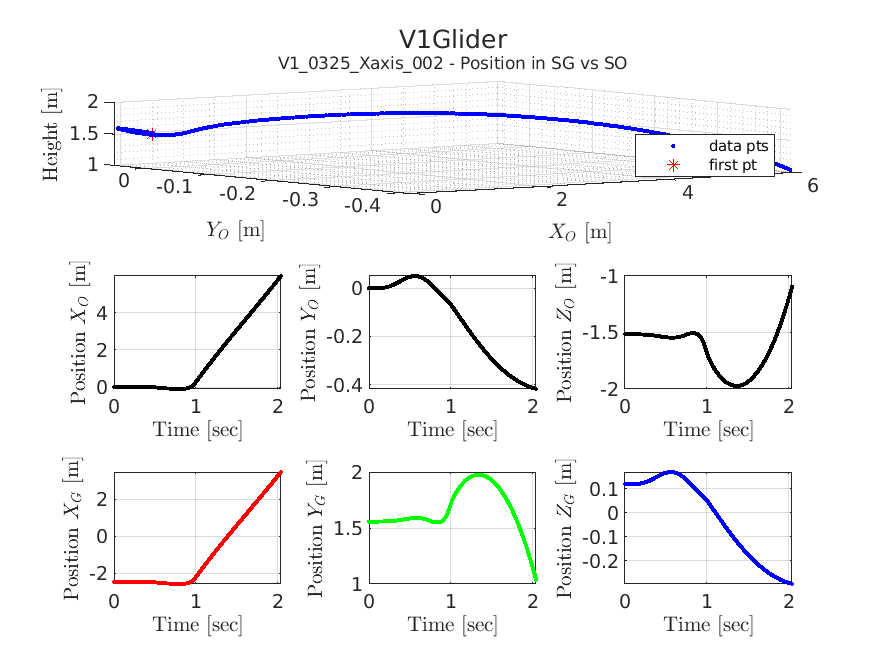
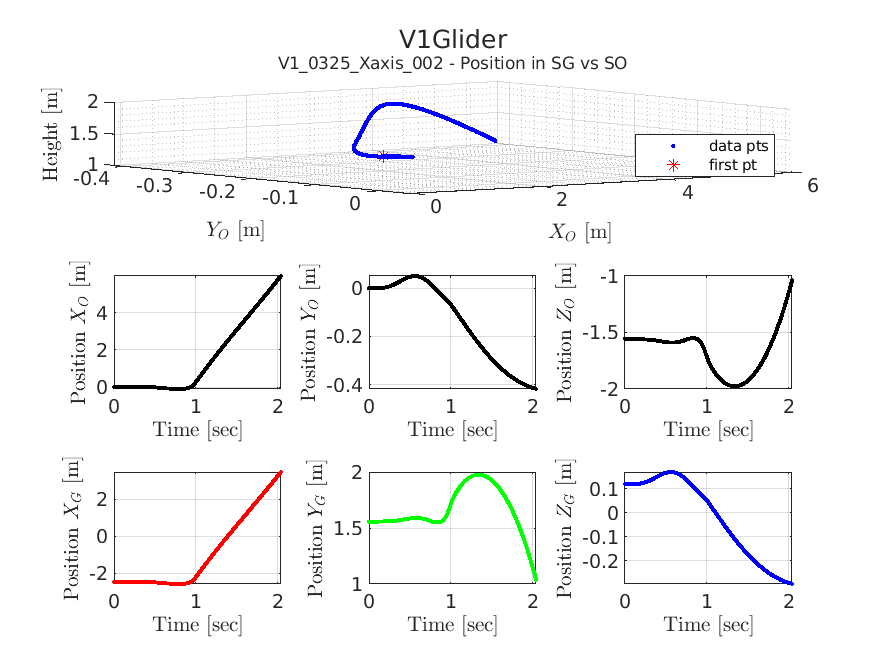
S01

diff --git a/classes/MyGlider.m b/classes/MyGlider.m
@@ -41,6 +41,11 @@ classdef MyGlider
         DOG % global to So
         posSO
         height
+        % rotation body wrt to SO
+        rotB_O
+
+        DBN % nominal to body
+        
 
         % to plot
         plotfolder = "plots/"
@@ -83,7 +88,7 @@ classdef MyGlider
             % do nothing with angles (it's already unwrapped)
             obj.rotG = obj.rotinput;
 
-            % ---------------------------------
+            % ------obj.rotB_O---------------------------
             % init conditions wrt SG
             % position
             obj.pos_originG = obj.posG(1, :);
@@ -92,12 +97,59 @@ classdef MyGlider
             % ---------------------------------
             
             %% frame change
-            % DO_G (global to So)
-            obj = GToSO(obj);
+            % position (global to So)
+            obj = posGToSO(obj);
+
+            % rotation
+            obj = angToSB(obj);
+
+        end
+        
+        function obj = angToSB(obj)
+            
+            % global to SO (90 deg on xG)
+            D0G = obj.DOG;
+            % transpose, SO to Global
+            DGO = transpose(D0G);
+
+            % nominal to body (90 deg on xN)
+            DBN = obj.getD1(90);
+            obj.DBN = DBN;
+
+            % measured angles (deg)
+            angG = obj.rotG;
+
+            n = size(angG, 1);
+            seq = 123;
+
+            obj.rotB_O = zeros(n, 3);
+
+            for k=1:n
+                
+                % current measured angles (from Motive)
+                phi = angG(k, 1);
+                theta = angG(k, 2);
+                psi = angG(k, 3);
+
+                % current rotation matrix
+                DNG_k = obj.getDmatrix([phi, theta, psi], seq);
+
+                % current DB/O
+                DBO = DBN * DNG_k * DGO;
+
+                % angles of interest (rotation of body wrt to SO)
+                eul_angles = rotm2eul(DBO, 'XYZ');
+
+                obj.rotB_O(k, :) = rad2deg(eul_angles);
+            end
+
+
+
 
         end
 
-        function obj = GToSO(obj)
+
+        function obj = posGToSO(obj)
 
             
             % height is the measurement in y direction
@@ -106,41 +158,132 @@ classdef MyGlider
             % rotate sequence
             seq = 123;
 
-            % rotate 90 degrees around xG (make z-down on So)
-            roll = 90;
-            % align xO with direction of movement (rotate the initial measured angle along yG )
-            pitch = obj.rotG(1, 2);
-            % don't rotate along zG
-            psi = 0;
-            % angle for rotation
-            ang = [roll, pitch, psi];
-            
-            % get rotation matrix from SG to SO
-            obj.DOG = obj.getDmatrix(ang, seq);
+            % SG to SO: +90 degrees around xG (make z-down)
+            obj.DOG = obj.getD1(90);
 
             % rotate position data from SG to SO
             pos_rotated = obj.rotatebyD(obj.posG, obj.DOG);   
 
             % TRANSLATE POSITION data from SG to SO 
-            % (displace by xG, zG to where the glider was first seen,
-            % xO(0), yO(0)
+            % (displace to where the glider was first seen, xO(0), yO(0) )
             shift = [pos_rotated(1, 1), pos_rotated(1, 2), 0];
             obj.posSO = obj.moveOrigin(pos_rotated, shift);
 
             %%
-            figure;
-            plot(obj.time, obj.posG(:, 2), 'r')
-            hold on
-            %plot(obj.time, obj.height, 'b--')
-            plot(obj.time, -obj.posSO(:, 3), 'k')
-            title('Height Check')
-            legend('Y-UP (raw)', '- $Z_O$', 'Interpreter', 'latex')
+            % figure;
+            % plot(obj.time, obj.posG(:, 2), 'r')
+            % hold on
+            % %plot(obj.time, obj.height, 'b--')
+            % plot(obj.time, -obj.posSO(:, 3), 'k')
+            % title('Height Check')
+            % legend('Y-UP (raw)', '- $Z_O$', 'Interpreter', 'latex')
 
 
         end
 
 
         %% plot functions
+
+        function plotStudio(obj, plotsubfolder, closeopt)
+            % PLOT in one figure
+            % (line 1) 3D position wrt to SO, Height instead of true Z
+            % (line 2) position vs time (also in S0)
+            % (line 3) angles taken from DB/O
+            
+            % time
+            t = obj.time;
+            
+            % position wrt SO
+            pos = obj.posSO;
+            x = pos(:, 1); y = pos(:, 2); z = obj.height;
+            
+            % rotation SB wrt SO
+            rot = obj.rotB_O;
+
+            % aestheticsuntitled3
+            mkrsize1 = 4; mkrsize2 = 3;
+
+            % figure
+            figure;
+            fg = tiledlayout(3, 3);
+            
+            % 3D POSITION in SO
+            nexttile([1 3]);
+            plot3(x, y, z, 'b.', 'MarkerSize', mkrsize1)
+            hold on
+            % initial collected point
+            plot3(x(1), y(1), z(1), 'r*', 'MarkerSize', mkrsize2)
+            % axis equal
+            set(gca, 'YDir', 'reverse')
+            % axis
+            xlabel('$X_{O}$ [m]')
+            ylabel('$Y_{O}$ [m]')
+            zlabel('Height [m]')
+            % legend
+            legend('data pts', 'first pt', 'Location', 'southeast', 'FontSize', 7)
+            legend('boxon')
+            grid on
+            grid minor
+            % [az, el] = view
+            view([20, 30])
+            
+            % POSITION vs TIME in SO
+            axisname = ["$X_O$", "$Y_O$", "$Z_O$"];
+            mycolor = ["r.", "m.", "g."];
+            for axx=1:3
+
+                nexttile
+                plot(t, pos(:, axx), mycolor(axx), 'MarkerSize', mkrsize1)
+                hold on
+                title('Position')
+                grid on
+                xlabel('Time [sec]')
+                yname =  axisname(axx) + " [m]";
+                ylabel(yname)
+                xlim([0 max(t)])
+                hold off
+            end
+
+            % ANGLE vs TIME wrt S0
+            anglename = ["$\phi$", "$\theta$", "$\psi$"];
+            mycolor = ["k.", "k.", "k."];        
+            for axx=1:3
+
+                nexttile
+                plot(t, rot(:, axx), mycolor(axx), 'MarkerSize', mkrsize1)
+                hold on
+                title('Rotation')
+                grid on
+                xlabel('Time [sec]')
+                yname =  anglename(axx) + " [deg]";
+                ylabel(yname)
+                xlim([0 max(t)])
+                hold off
+            end
+
+            %% saving
+            % where it's gonna be saved
+            pfolder = strcat(obj.plotfolder, plotsubfolder);
+            % change this for obj.gliderID and add b in the save file
+            mytitle = obj.gliderID;
+            mysubtitle = strcat(obj.takename);%, " [visible ", string(obj.pervalid), '%]');
+            mysavename = strcat(obj.takename, "main");
+
+            % figure title
+            title(fg, mytitle, 'FontSize', 12)
+            subtitle(fg,mysubtitle, 'FontSize', 8, 'Interpreter', 'none')
+
+            % save plot as png (todo: change to pdf and crop)
+            saveas(gcf,fullfile(pfolder, mysavename), 'png')
+            hold off
+
+            if closeopt ~= 0
+                close
+            end
+
+        end
+
+
         % TODO move this to function for all classes
         function plotPos(obj, plotsubfolder, closeopt)
 
@@ -170,7 +313,7 @@ classdef MyGlider
             % initial collected point
             plot3(x(1), y(1), z(1), 'r*', 'MarkerSize', mkrsize2)
             % axis equal
-            % set(gca, 'YDir', 'reverse')
+            set(gca, 'YDir', 'reverse')
             % axis
             xlabel('$X_{O}$ [m]')
             ylabel('$Y_{O}$ [m]')
@@ -180,6 +323,7 @@ classdef MyGlider
             legend('boxon')
             grid on
             grid minor
+            
 
             % plot wrt SR0
             for axx=1:3
@@ -227,9 +371,6 @@ classdef MyGlider
                 ylabel(yname)
                 hold off
             end
-
-            
-
 
             %% saving
             % where it's gonna be saved

diff --git a/main.m b/main.m
@@ -14,9 +14,8 @@ set(0,'defaulttextinterpreter','latex')
 warning('off','all')
 
 % ------------------------------------------
-% change folder name here
-% folder where csv files are saved
-sessionfolder = "datadebug";
+% save files inside mydata
+sessionfolder = "mydata";
 % close figures after saving them; 1 to close, 0 to leave them open
 closeplot = 0;
 % ------------------------------------------
@@ -44,7 +43,7 @@ for k = 1:session.nFiles
     % plot tracking data in global coordinates
     plotfoldername = strcat("plots", "_", sessionfolder);
     % plot
-    take.plotData(plotfoldername, closeplot);
+    % take.plotData(plotfoldername, closeplot);
     % -----------------
     
     % new glider obj
@@ -54,28 +53,24 @@ for k = 1:session.nFiles
     % input glidername and takename for easy access
     glider = glider.source(take.commoname, take.name);
     
-    %  plots just to check
-    % glider.plotPos(plotfoldername, closeplot)
+    %  plot
     glider.plotStudio(plotfoldername, closeplot)
 
     %% Glider data 
 
-    % position in normal frame of reference (SN)
-    positionSO = glider.posSO;
+    % position wrt SO
+    positionB_SO = glider.posSO;
 
+    % rotation body wrt SO
+    rotationB_SO = glider.rotB_O;
+
+    % height
+    height = glider.height;
+
+    % save
+    save(glider.takename, "height", "rotationB_SO", "positionB_SO")
 
 end
-
-
-
-
-
-
-
-
-
-
-
 
 
 
